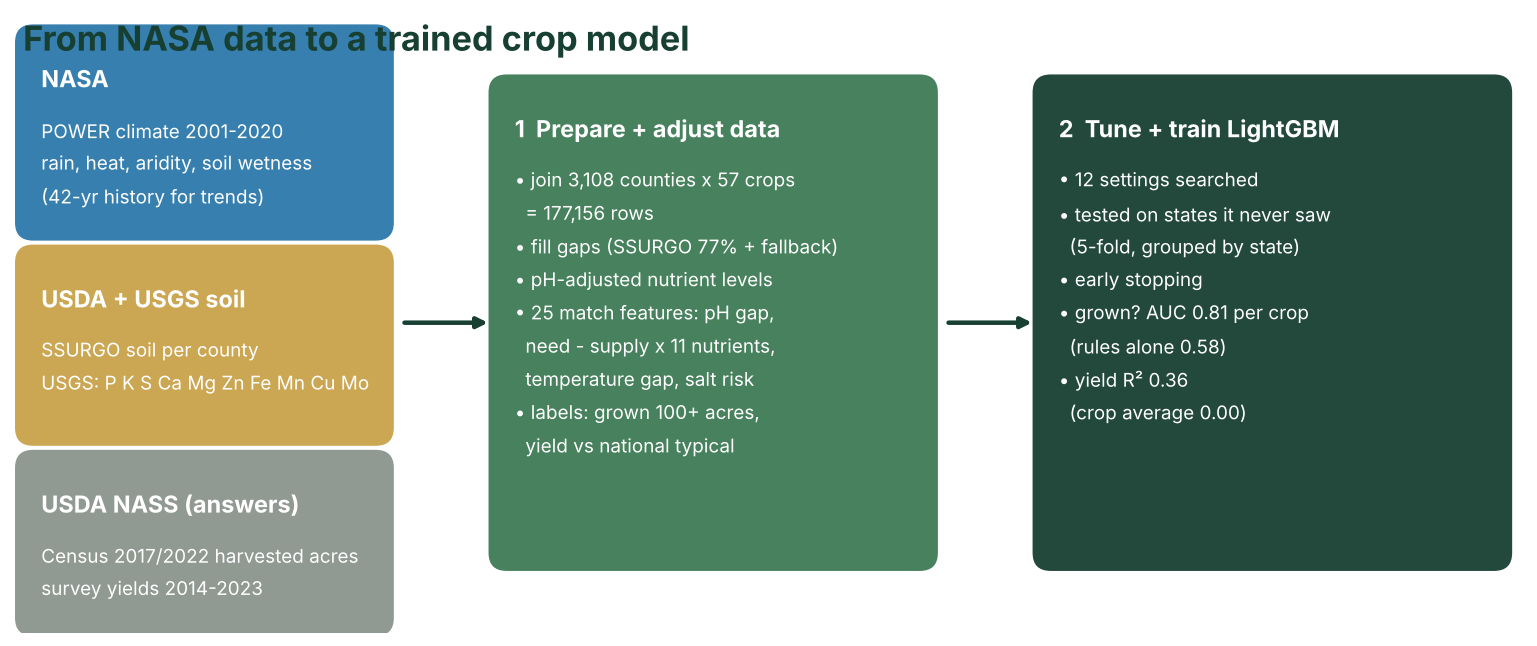
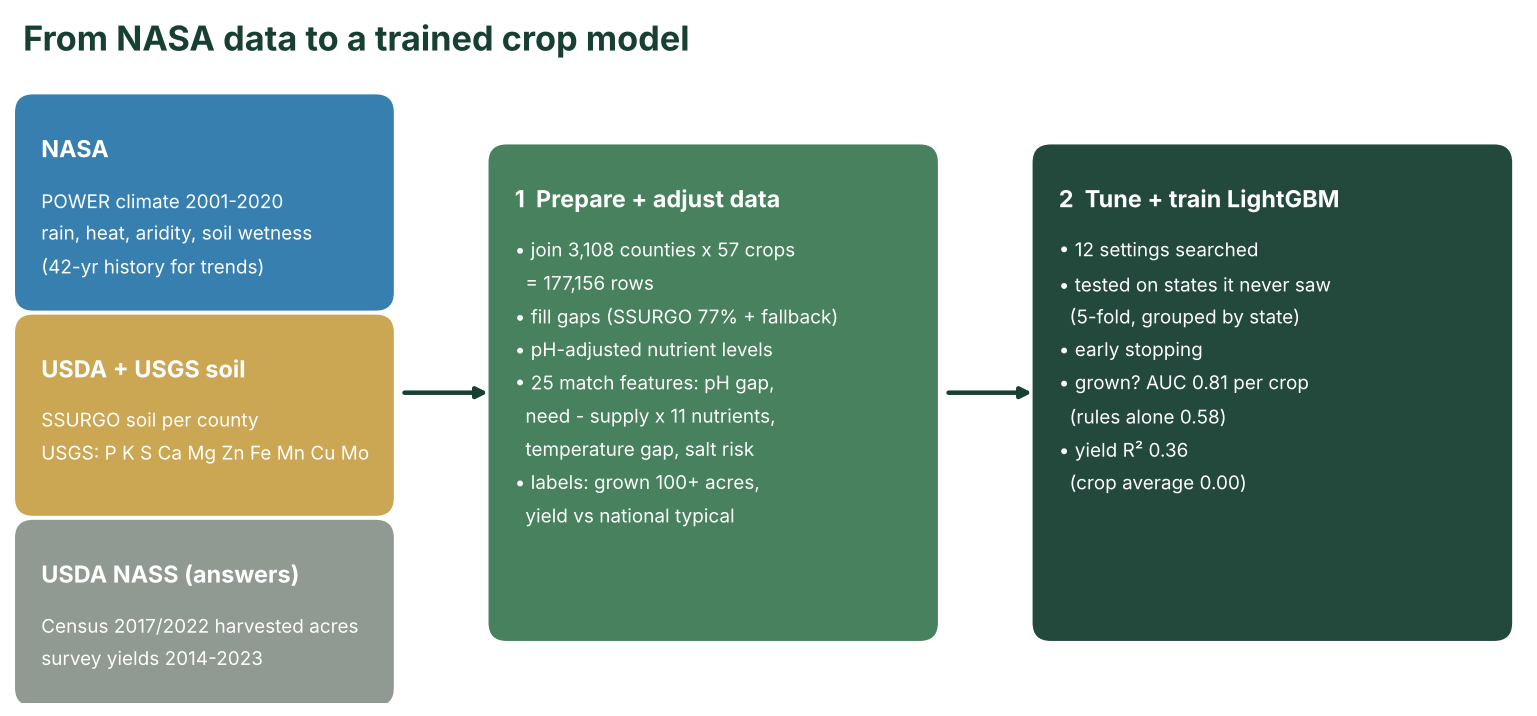
Scripts that build the data and train the model + graphs (fix overlapping labels)

diff --git a/training/tune_and_figures.py b/training/tune_and_figures.py
@@ -109,7 +109,7 @@ def save(fig, name):
     fig.savefig(FIG / name, bbox_inches="tight", facecolor="white"); plt.close(fig); print("figure", name)
 
 # F1 pipeline
-fig, ax = plt.subplots(figsize=(15, 6.2)); ax.axis("off"); ax.set_xlim(0, 15); ax.set_ylim(0, 6.2)
+fig, ax = plt.subplots(figsize=(15, 6.9)); ax.axis("off"); ax.set_xlim(0, 15); ax.set_ylim(0, 6.9)
 def box(x, y, w, h, title, lines, color):
     ax.add_patch(FancyBboxPatch((x, y), w, h, boxstyle="round,pad=0.08,rounding_size=0.18", fc=color, ec="none", alpha=0.95))
     ax.text(x + 0.18, y + h - 0.32, title, color="white", fontsize=13, weight="bold", va="top")
@@ -127,7 +127,7 @@ arrow(9.25, 10.15)
 box(10.2, 0.7, 4.6, 4.8, "2  Tune + train LightGBM", [f"• {len(space)} settings searched", "• tested on states it never saw", "  (5-fold, grouped by state)",
      "• early stopping", f"• grown? AUC {pc_best.median():.2f} per crop", f"  (rules alone {pc_rule.median():.2f})", f"• yield R² {res['yield_r2']['lightgbm_tuned']:.2f}",
      "  (crop average 0.00)"], DARK)
-ax.text(0.1, 6.15, "From NASA data to a trained crop model", fontsize=19, weight="bold", color=DARK, va="top")
+ax.text(0.1, 6.85, "From NASA data to a trained crop model", fontsize=19, weight="bold", color=DARK, va="top")
 save(fig, "01_pipeline.png")
 
 # F2 data preparation: feature groups + dataset size
